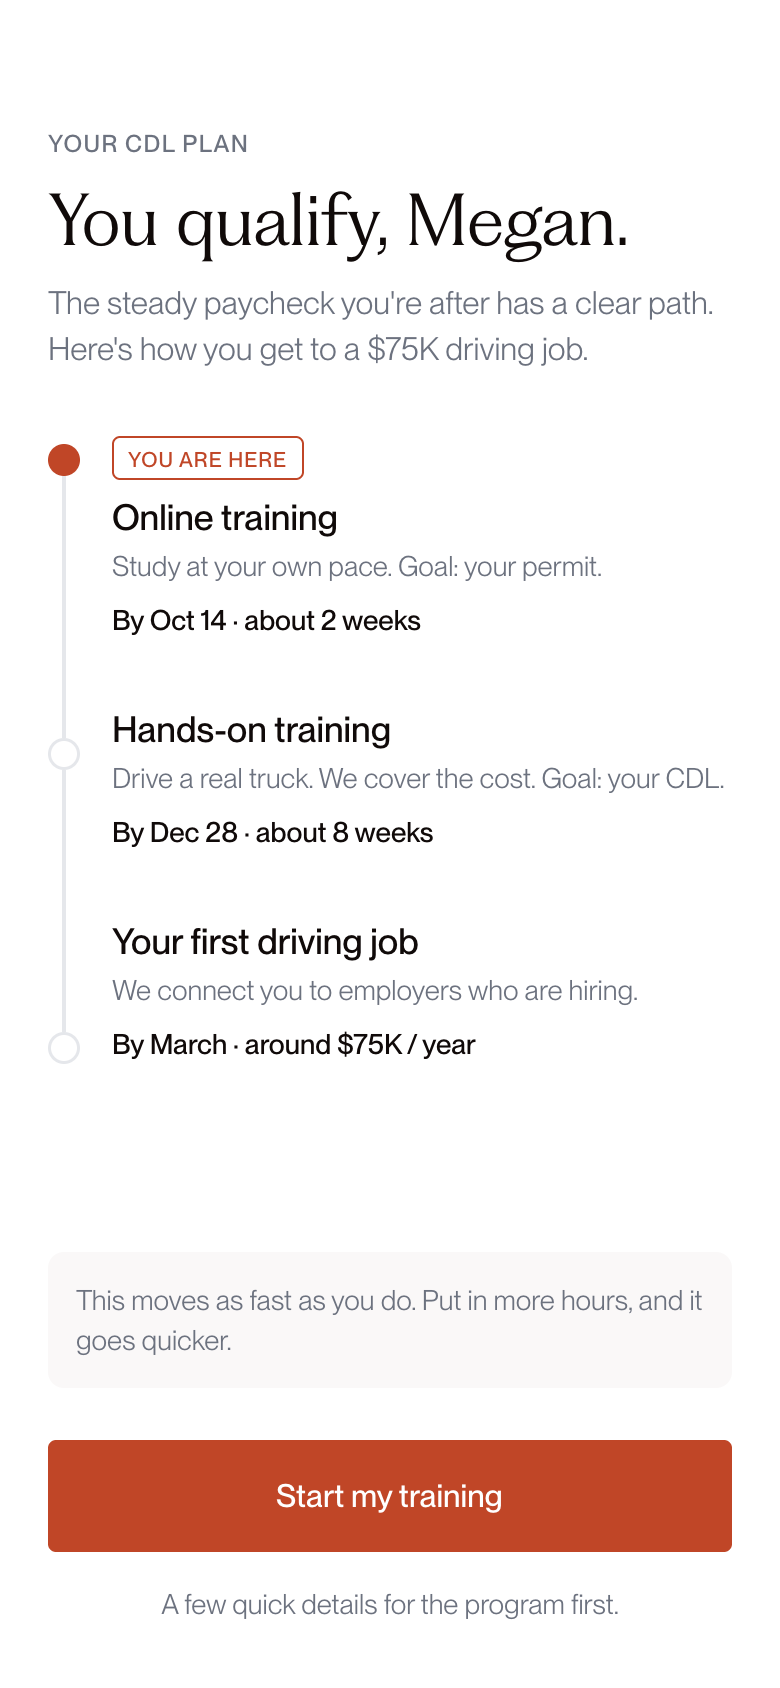
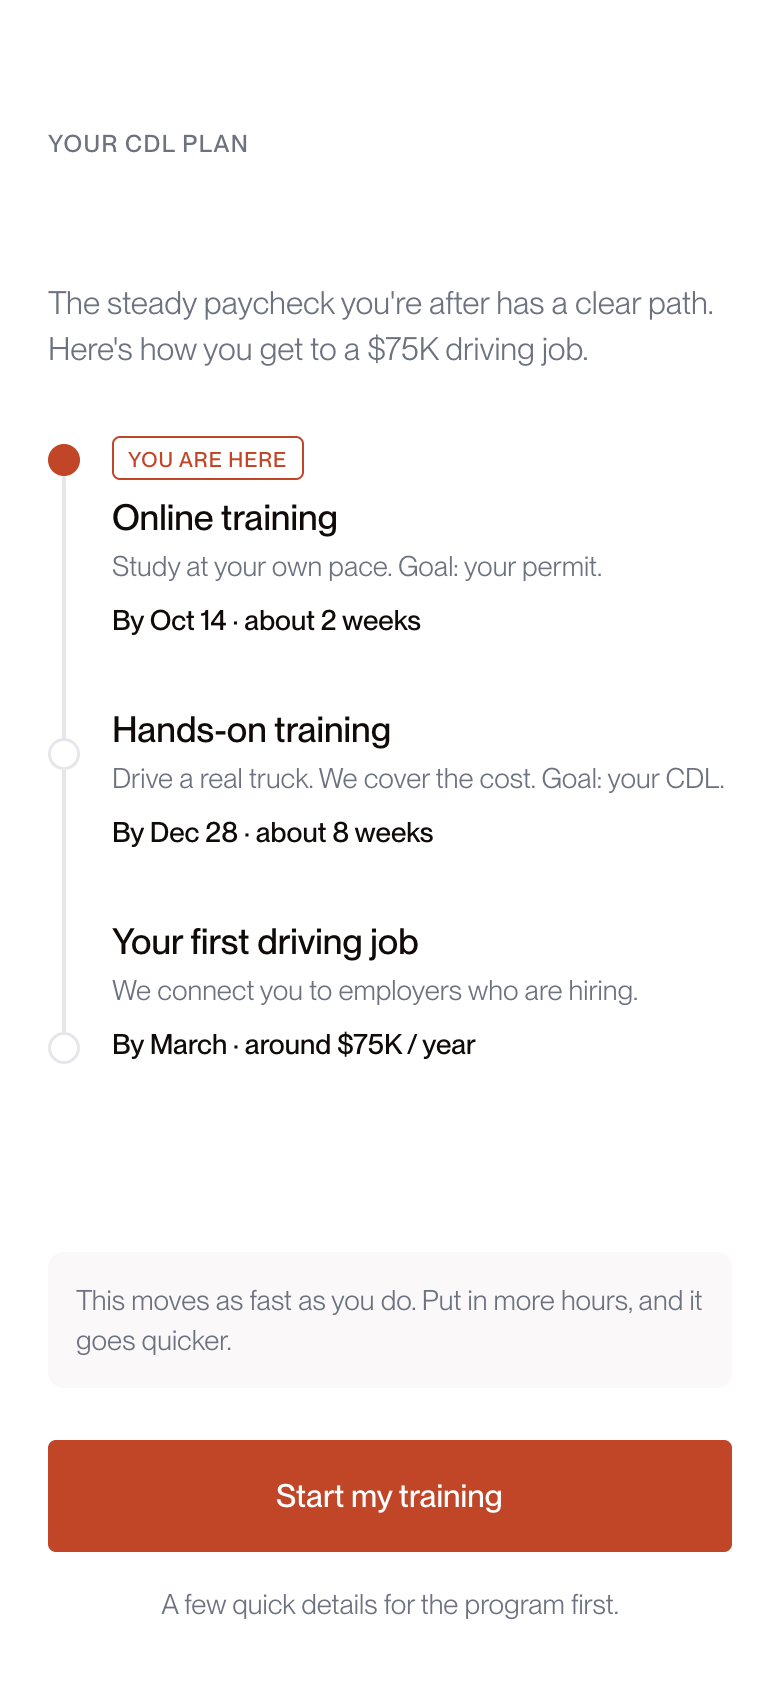
Interactive answers, branching, personalization, on-hold ending

Changed region(s): [[0.0615, 0.0924, 0.4923, 0.154], [0.5231, 0.0924, 0.8, 0.154]]

diff --git a/index.html b/index.html
@@ -5,61 +5,166 @@
 <meta name="viewport" content="width=device-width, initial-scale=1, viewport-fit=cover" />
 <meta name="robots" content="noindex, nofollow" />
 <title>Emerge Career · Sign-up prototype</title>
+<link rel="preconnect" href="https://fonts.googleapis.com" />
+<link rel="preconnect" href="https://fonts.gstatic.com" crossorigin />
+<link href="https://fonts.googleapis.com/css2?family=Newsreader:opsz,wght@6..72,300&display=swap" rel="stylesheet" />
 <style>
   * { box-sizing: border-box; }
   html, body { margin: 0; background: #ECEAE8; font-family: -apple-system, BlinkMacSystemFont, "Helvetica Neue", Arial, sans-serif; color: #110A09; }
   .phone { position: relative; width: 100%; max-width: 430px; margin: 0 auto; background: #fff; min-height: 100vh; }
-  .screen { position: relative; width: 100%; }
+  .screen { position: relative; width: 100%; --s: 1; }
   .screen img { display: block; width: 100%; height: auto; user-select: none; -webkit-user-drag: none; }
-  .hot { position: absolute; cursor: pointer; border-radius: 4px; -webkit-tap-highlight-color: transparent; }
-  .hot:active { background: rgba(255,255,255,0.15); }
+  .hot { position: absolute; cursor: pointer; -webkit-tap-highlight-color: transparent; z-index: 3; }
+  .sel { position: absolute; pointer-events: none; z-index: 2; border: 1.5px solid #D03A14; background: rgba(208,58,20,0.08); }
+  .box { position: absolute; pointer-events: none; z-index: 2; background: #D03A14; border-radius: calc(6px * var(--s)); display: flex; align-items: center; justify-content: center; }
+  .box svg { width: 62%; height: 62%; }
+  .radio { position: absolute; pointer-events: none; z-index: 2; border: 1.5px solid #D03A14; border-radius: 50%; background: #fff; display: flex; align-items: center; justify-content: center; }
+  .radio::after { content: ""; width: 48%; height: 48%; border-radius: 50%; background: #D03A14; }
+  .txt { position: absolute; pointer-events: none; z-index: 2; }
+  .headline { font-family: "Newsreader", "Times New Roman", serif; font-weight: 300; font-size: calc(34px * var(--s)); line-height: calc(40px * var(--s)); letter-spacing: -0.01em; }
+  .eyebrow { font-weight: 500; font-size: calc(12px * var(--s)); line-height: calc(16px * var(--s)); letter-spacing: 0.06em; text-transform: uppercase; color: #D6D6D6; }
   .hint .hot.cta { outline: 3px solid rgba(208,58,20,0.9); outline-offset: 2px; animation: pulse 1s ease-in-out 2; }
+  .hint .hot.opt { outline: 2px dashed rgba(208,58,20,0.8); outline-offset: 1px; }
   @keyframes pulse { 50% { outline-color: rgba(208,58,20,0.2); } }
   .toast { position: fixed; left: 50%; bottom: 24px; transform: translateX(-50%); background: #110A09; color: #fff; padding: 12px 16px; border-radius: 8px; font-size: 15px; line-height: 20px; max-width: 360px; width: calc(100% - 32px); text-align: center; opacity: 0; transition: opacity .2s; pointer-events: none; z-index: 10; }
   .toast.show { opacity: 1; }
   .card { padding: 40px 28px; }
   .card h1 { font-size: 28px; line-height: 34px; font-weight: 600; margin: 0 0 16px; }
-  .card p { font-size: 17px; line-height: 25px; margin: 0 0 14px; color: #333; }
-  .card ul { padding-left: 20px; margin: 0 0 24px; font-size: 17px; line-height: 25px; color: #333; }
+  .card p, .card li { font-size: 17px; line-height: 25px; color: #333; }
+  .card p { margin: 0 0 14px; }
+  .card ul { padding-left: 20px; margin: 0 0 20px; }
+  .card label { display: block; font-size: 15px; font-weight: 600; margin: 8px 0 6px; color: #5C5450; }
+  .card input { width: 100%; height: 50px; border: 1.5px solid #E5E7EB; border-radius: 4px; padding: 0 14px; font-size: 17px; margin-bottom: 6px; }
+  .card input:focus { outline: none; border-color: #5C5450; }
+  .card small { display: block; color: #6B7280; font-size: 14px; margin-bottom: 22px; }
   .card button { width: 100%; height: 54px; border: 0; border-radius: 4px; background: #D03A14; color: #fff; font-size: 17px; font-weight: 600; cursor: pointer; }
+  .card dl { margin: 0 0 22px; font-size: 16px; line-height: 22px; }
+  .card dt { color: #6B7280; font-size: 14px; margin-top: 10px; }
+  .card dd { margin: 0; }
 </style>
 </head>
 <body>
 <div class="phone" id="app"></div>
 <div class="toast" id="toast"></div>
 <script>
-const SCREENS = [{"img": "img/01.png", "w": 390, "h": 958, "back": false, "cta": [24, 876, 342, 54]}, {"img": "img/02.png", "w": 390, "h": 949, "back": false, "cta": [24, 867, 342, 54]}, {"img": "img/03.png", "w": 390, "h": 844, "back": false, "cta": [24, 726, 342, 54]}, {"img": "img/04.png", "w": 390, "h": 844, "back": true, "cta": [24, 762, 342, 54]}, {"img": "img/05.png", "w": 390, "h": 844, "back": true, "cta": [24, 762, 342, 54]}, {"img": "img/06.png", "w": 390, "h": 844, "back": false, "story": true, "cta": [290, 770, 100, 48]}, {"img": "img/07.png", "w": 390, "h": 935, "back": true, "cta": [24, 853, 342, 54]}, {"img": "img/08.png", "w": 390, "h": 844, "back": true, "cta": [24.0, 762, 342, 54]}, {"img": "img/09.png", "w": 390, "h": 844, "back": true, "cta": [24, 762, 342, 54]}, {"img": "img/10.png", "w": 390, "h": 844, "back": true, "cta": [28.0, 750, 334, 54]}, {"img": "img/11.png", "w": 390, "h": 844, "back": true, "cta": [24, 762, 342, 54]}, {"img": "img/12.png", "w": 390, "h": 1049, "back": true, "cta": [24.0, 967, 342, 54]}, {"img": "img/13.png", "w": 390, "h": 972, "back": true, "cta": [24, 890, 342, 54]}, {"img": "img/14.png", "w": 390, "h": 844, "back": true, "cta": [28.0, 750, 334, 54]}, {"img": "img/15.png", "w": 390, "h": 1836, "back": true, "cta": [24.0, 1754, 342, 54]}, {"img": "img/16.png", "w": 390, "h": 844, "back": false, "cta": [28.0, 750, 334, 54]}, {"img": "img/17.png", "w": 390, "h": 844, "back": false, "auto": 3500}, {"img": "img/18.png", "w": 390, "h": 844, "back": false, "cta": [28.0, 716, 334, 54]}, {"img": "img/19.png", "w": 390, "h": 844, "back": false, "cta": [24, 720, 342, 56]}, {"img": "img/20.png", "w": 390, "h": 940, "back": false, "cta": [24.0, 856, 342, 56]}];
+// Geometry is in design pixels (390-wide artboards). Rects are [x, y, w, h].
+const BTN = (y) => [24, y, 342, 54];
+const MOTIVES = ["A new high-paying career", "Provide for my family", "A fresh start", "Freedom of the open road", "Something else"];
+const MOTIVE_EYEBROW = ["You want a high-paying career", "You want to provide for your family", "You want a fresh start", "You want the open road", "You're not the first"];
+const STARTS = ["Brand new to trucking", "Driven for work before", "Already have a permit (CLP)", "Already have a CDL"];
+const params = new URLSearchParams(location.search);
+const FORCE = params.get('ending'); // "hold" or "qualify" pins the ending for a test variant
+
 const app = document.getElementById('app');
 const toast = document.getElementById('toast');
 let timer = null, toastTimer = null;
 
-SCREENS.forEach(s => { const i = new Image(); i.src = s.img; });
+let S = JSON.parse(sessionStorage.getItem('proto') || '{}');
+S = Object.assign({ name: '', motives: [], start: null, license: null, arrested: null }, S);
+if (params.has('debug') && params.get('state')) S = Object.assign(S, JSON.parse(params.get('state')));
+const save = () => sessionStorage.setItem('proto', JSON.stringify(S));
+const onHold = () => FORCE === 'hold' || (FORCE !== 'qualify' && S.license === 'no');
+
+const SCREENS = {
+  1: () => ({ img: '01', size: [390, 958], cta: BTN(876) }),
+  2: () => ({ img: '02', size: [390, 949], cta: BTN(867) }),
+  3: () => ({ img: '03', size: [390, 844], cta: BTN(726) }),
+  4: () => ({ img: '04', size: [390, 844], cta: BTN(762), back: true }),
+  5: () => ({
+    img: '05', size: [390, 844], cta: BTN(762), back: true,
+    need: () => S.motives.length > 0, needMsg: 'Pick at least one answer first.',
+    multi: {
+      cards: [[24,250,342,56],[24,318,342,56],[24,386,342,56],[24,454,342,56],[24,522,342,56]],
+      boxes: [[327,267,22,22],[327,335,22,22],[327,403,22,22],[327,471,22,22],[327,539,22,22]] },
+  }),
+  6: () => ({ img: '06', size: [390, 844], story: true, cta: [290, 770, 100, 48],
+    texts: [{ cls: 'eyebrow', rect: [20, 563, 350, 16], text: MOTIVE_EYEBROW[S.motives.length ? Math.min(...S.motives) : 4] }] }),
+  7: () => ({ img: '07', size: [390, 935], cta: BTN(853), back: true }),
+  8: () => ({ img: '08', size: [390, 844], cta: BTN(762), back: true }),
+  9: () => ({ img: '09', size: [390, 844], cta: BTN(762), back: true }),
+  10: () => ({ img: '10', size: [390, 844], cta: [28, 750, 334, 54], back: true,
+    texts: [{ cls: 'headline', rect: [28, 156, 334, 80], color: '#FFFFFF', text: `Nice to meet you, ${S.name || 'friend'}.` }] }),
+  11: () => ({
+    img: '11', size: [390, 844], cta: BTN(762), back: true,
+    need: () => S.start !== null, needMsg: 'Pick where you are starting from first.',
+    single: {
+      cards: [[24,346,342,76],[24,434,342,76],[24,522,342,76],[24,610,342,56]],
+      radios: [[325,373,22,22],[325,461,22,22],[325,549,22,22],[325,627,22,22]] },
+  }),
+  12: () => (S.license === 'no'
+    ? { img: '12no', size: [390, 1256], cta: BTN(1174), back: true, yesno: { key: 'license', yes: [24,330,166,46], no: [200,330,166,46], baked: 'no' } }
+    : { img: '12', size: [390, 1049], cta: BTN(967), back: true, yesno: { key: 'license', yes: [24,330,166,46], no: [200,330,166,46] },
+        need: () => S.license !== null, needMsg: 'Answer the driver’s license question first.' }),
+  13: () => ({ img: '13', size: [390, 972], cta: BTN(890), back: true }),
+  14: () => ({ img: '14', size: [390, 844], cta: [28, 750, 334, 54], back: true }),
+  15: () => {
+    const yn = { key: 'arrested', yes: [24,438,166,46], no: [200,438,166,46] };
+    if (S.arrested === 'yes') return { img: '15b', size: [390, 1836], cta: BTN(1754), back: true, yesno: { ...yn, baked: 'yes' } };
+    if (S.arrested === 'no') return { img: '15a', size: [390, 844], cta: BTN(762), back: true, yesno: { ...yn, baked: 'no' } };
+    return { img: '15', size: [390, 844], cta: BTN(762), back: true, yesno: yn, need: () => false, needMsg: 'Answer the question first.' };
+  },
+  16: () => ({ img: '16', size: [390, 844], cta: [28, 750, 334, 54] }),
+  17: () => ({ img: '17', size: [390, 844], auto: 3500 }),
+  18: () => ({ img: '18', size: [390, 844], cta: [28, 716, 334, 54] }),
+  19: () => (onHold()
+    ? { img: '19b', size: [390, 844], cta: BTN(762) }
+    : { img: '19', size: [390, 844], cta: [24, 720, 342, 56],
+        texts: [{ cls: 'headline', rect: [24, 90, 342, 40], color: '#110A09', text: `You qualify, ${S.name || 'friend'}.` }] }),
+  20: () => ({ img: '20', size: [390, 940], cta: [24, 856, 342, 56] }),
+};
+const LAST = 20;
+const nextOf = (n) => {
+  if (n === LAST) return 'end';
+  if (n === 17 && onHold()) return 19; // "Your road ahead" shows a timeline, which doesn't apply on hold
+  return n + 1;
+};
+const prevOf = (n) => (n === 19 && onHold() ? 17 : n - 1);
+
+['01','02','03','04','05','06','07','08','09','10','11','12','12no','13','14','15','15a','15b','16','17','18','19','19b','20']
+  .forEach(k => { const i = new Image(); i.src = `img/${k}.png`; });
 
 function showToast(msg, ms = 2600) {
   toast.textContent = msg; toast.classList.add('show');
   clearTimeout(toastTimer); toastTimer = setTimeout(() => toast.classList.remove('show'), ms);
 }
 function go(n) { location.hash = '#' + n; }
-function pct(v, total) { return (v / total * 100) + '%'; }
+const pctBox = ([x, y, w, h], [W, H]) => `left:${x / W * 100}%;top:${y / H * 100}%;width:${w / W * 100}%;height:${h / H * 100}%`;
+const esc = (t) => String(t).replace(/[&<>"]/g, c => ({ '&': '&amp;', '<': '&lt;', '>': '&gt;', '"': '&quot;' }[c]));
+const CHECK = '<svg viewBox="0 0 24 24"><path d="M5 12.5l4.5 4.5L19 7.5" fill="none" stroke="#fff" stroke-width="3" stroke-linecap="round" stroke-linejoin="round"/></svg>';
 
 function intro() {
   app.innerHTML = `<div class="card">
     <h1>Before you start</h1>
     <p>This is a clickable picture of a new sign-up flow for a free truck-driving (CDL) training program. It is not a real app.</p>
     <ul>
-      <li>Only the main button at the bottom of each screen works. Tap it to move on.</li>
-      <li>Answers are already filled in for you. You don't need to type anything.</li>
+      <li>Tap answers where you can, then the main button at the bottom to move on.</li>
+      <li>Text fields are already filled in. You don't need to type anything after this.</li>
       <li>The arrow at the top left goes back.</li>
     </ul>
     <p>Please think out loud the whole time.</p>
-    <button onclick="go(1)">Start</button></div>`;
+    <label for="nm">What should we call you?</label>
+    <input id="nm" autocomplete="given-name" placeholder="First name" value="${esc(S.name)}" />
+    <small>Only used inside this prototype. Nothing is saved or sent anywhere.</small>
+    <button id="start">Start</button></div>`;
+  const nm = document.getElementById('nm');
+  document.getElementById('start').onclick = () => {
+    S = { name: nm.value.trim().slice(0, 24), motives: [], start: null, license: null, arrested: null }; save(); go(1);
+  };
 }
 function end() {
+  const yn = (v) => v === 'yes' ? 'Yes' : v === 'no' ? 'No' : 'Not answered';
   app.innerHTML = `<div class="card">
     <h1>That's the end</h1>
     <p>You reached the last screen of the prototype. Thank you!</p>
     <p>Please go back to the test instructions to answer the final questions.</p>
-    <button onclick="go(1)">Start over</button></div>`;
+    <dl>
+      <dt>What brings you here</dt><dd>${S.motives.length ? S.motives.map(i => MOTIVES[i]).join(', ') : 'Not answered'}</dd>
+      <dt>Starting point</dt><dd>${S.start !== null ? STARTS[S.start] : 'Not answered'}</dd>
+      <dt>Active driver's license</dt><dd>${yn(S.license)}</dd>
+      <dt>Ever arrested or charged</dt><dd>${yn(S.arrested)}</dd>
+      <dt>Ending shown</dt><dd>${onHold() ? 'On hold (license needed)' : 'You qualify'}</dd>
+    </dl>
+    <button onclick="sessionStorage.removeItem('proto'); location.hash=''">Start over</button></div>`;
 }
 
 function render() {
@@ -67,35 +172,67 @@ function render() {
   const raw = location.hash.replace('#', '');
   if (!raw) return intro();
   if (raw === 'end') return end();
-  const n = Math.max(1, Math.min(SCREENS.length, parseInt(raw, 10) || 1));
-  const s = SCREENS[n - 1];
-  const next = n === SCREENS.length ? 'end' : n + 1;
-  let hots = '';
-  if (s.cta) {
-    const [x, y, w, h] = s.cta;
-    hots += `<div class="hot cta" data-go="${next}" style="left:${pct(x, s.w)};top:${pct(y, s.h)};width:${pct(w, s.w)};height:${pct(h, s.h)}"></div>`;
-  }
-  if (s.back) hots += `<div class="hot" data-go="${n - 1}" style="left:0;top:${pct(30, s.h)};width:${pct(70, s.w)};height:${pct(64, s.h)}"></div>`;
-  if (s.story) hots += `<div class="hot" data-video="1" style="left:0;top:${pct(130, s.h)};width:100%;height:${pct(420, s.h)}"></div>`;
-  app.innerHTML = `<div class="screen"><img src="${s.img}" alt="Screen ${n}">${hots}</div>`;
-  window.scrollTo(0, 0);
+  const n = Math.max(1, Math.min(LAST, parseInt(raw, 10) || 1));
+  const s = SCREENS[n]();
+  const sz = s.size;
+  let html = `<img src="img/${s.img}.png" alt="Screen ${n}">`;
 
-  app.querySelectorAll('.hot[data-go]').forEach(el => el.addEventListener('click', e => { e.stopPropagation(); go(el.dataset.go); }));
-  const v = app.querySelector('[data-video]');
-  if (v) v.addEventListener('click', e => {
+  if (s.multi) s.multi.cards.forEach((r, i) => {
+    if (S.motives.includes(i)) html += `<div class="sel" style="${pctBox(r, sz)};border-radius:calc(8px * var(--s))"></div><div class="box" style="${pctBox(s.multi.boxes[i], sz)}">${CHECK}</div>`;
+    html += `<div class="hot opt" data-multi="${i}" style="${pctBox(r, sz)}"></div>`;
+  });
+  if (s.single) s.single.cards.forEach((r, i) => {
+    if (S.start === i) html += `<div class="sel" style="${pctBox(r, sz)};border-radius:calc(8px * var(--s))"></div><div class="radio" style="${pctBox(s.single.radios[i], sz)}"></div>`;
+    html += `<div class="hot opt" data-single="${i}" style="${pctBox(r, sz)}"></div>`;
+  });
+  if (s.yesno) ['yes', 'no'].forEach(v => {
+    const r = s.yesno[v];
+    if (S[s.yesno.key] === v && s.yesno.baked !== v) html += `<div class="sel" style="${pctBox(r, sz)};border-radius:calc(4px * var(--s))"></div>`;
+    html += `<div class="hot opt" data-yn="${v}" style="${pctBox(r, sz)}"></div>`;
+  });
+  (s.texts || []).forEach(t => {
+    html += `<div class="txt ${t.cls}" style="${pctBox(t.rect, sz)};${t.color ? 'color:' + t.color : ''}">${esc(t.text)}</div>`;
+  });
+  if (s.cta) html += `<div class="hot cta" data-cta="1" style="${pctBox(s.cta, sz)}"></div>`;
+  if (s.back) html += `<div class="hot" data-go="${prevOf(n)}" style="${pctBox([0, 30, 70, 64], sz)}"></div>`;
+  if (s.story) html += `<div class="hot" data-video="1" style="${pctBox([0, 130, 390, 420], sz)}"></div>`;
+
+  app.innerHTML = `<div class="screen">${html}</div>`;
+  const screen = app.querySelector('.screen');
+  const setScale = () => screen.style.setProperty('--s', screen.clientWidth / 390);
+  setScale(); window.onresize = setScale;
+  if (!render.keepScroll) window.scrollTo(0, 0);
+  render.keepScroll = false;
+
+  const rerender = () => { save(); render.keepScroll = true; render(); };
+  screen.querySelectorAll('[data-multi]').forEach(el => el.onclick = (e) => {
+    e.stopPropagation(); const i = +el.dataset.multi;
+    S.motives = S.motives.includes(i) ? S.motives.filter(x => x !== i) : [...S.motives, i]; rerender();
+  });
+  screen.querySelectorAll('[data-single]').forEach(el => el.onclick = (e) => { e.stopPropagation(); S.start = +el.dataset.single; rerender(); });
+  screen.querySelectorAll('[data-yn]').forEach(el => el.onclick = (e) => { e.stopPropagation(); S[s.yesno.key] = el.dataset.yn; rerender(); });
+  screen.querySelectorAll('[data-go]').forEach(el => el.onclick = (e) => { e.stopPropagation(); go(el.dataset.go); });
+  const cta = screen.querySelector('[data-cta]');
+  if (cta) cta.onclick = (e) => {
+    e.stopPropagation();
+    if (s.need && !s.need()) { showToast(s.needMsg); screen.classList.add('hint'); setTimeout(() => screen.classList.remove('hint'), 2100); return; }
+    go(nextOf(n));
+  };
+  const v = screen.querySelector('[data-video]');
+  if (v) v.onclick = (e) => {
     e.stopPropagation(); clearTimeout(timer);
     showToast("In the real app, Tyler's 30-second video plays here. It moves on when the video ends.", 3600);
-    timer = setTimeout(() => go(next), 4200);
-  });
-  app.querySelector('.screen').addEventListener('click', () => {
+    timer = setTimeout(() => go(nextOf(n)), 4200);
+  };
+  screen.onclick = () => {
     if (!s.cta) return;
-    app.classList.add('hint'); setTimeout(() => app.classList.remove('hint'), 2100);
-    showToast('In this prototype, only the main button works.');
-  });
-  if (s.story) timer = setTimeout(() => go(next), 7000);
-  if (s.auto) timer = setTimeout(() => go(next), s.auto);
+    screen.classList.add('hint'); setTimeout(() => screen.classList.remove('hint'), 2100);
+    showToast(s.multi || s.single || s.yesno ? 'Tap an answer, then the main button.' : 'In this prototype, only the main button works.');
+  };
+  if (s.story) timer = setTimeout(() => go(nextOf(n)), 7000);
+  if (s.auto) timer = setTimeout(() => go(nextOf(n)), s.auto);
 }
-if (location.search.includes('debug')) document.head.insertAdjacentHTML('beforeend','<style>.hot{outline:2px dashed #00f!important;background:rgba(0,0,255,.12)}</style>');
+if (params.has('debug')) document.head.insertAdjacentHTML('beforeend', '<style>.hot{outline:2px dashed #00f!important;background:rgba(0,0,255,.12)}</style>');
 window.addEventListener('hashchange', render);
 render();
 </script>
